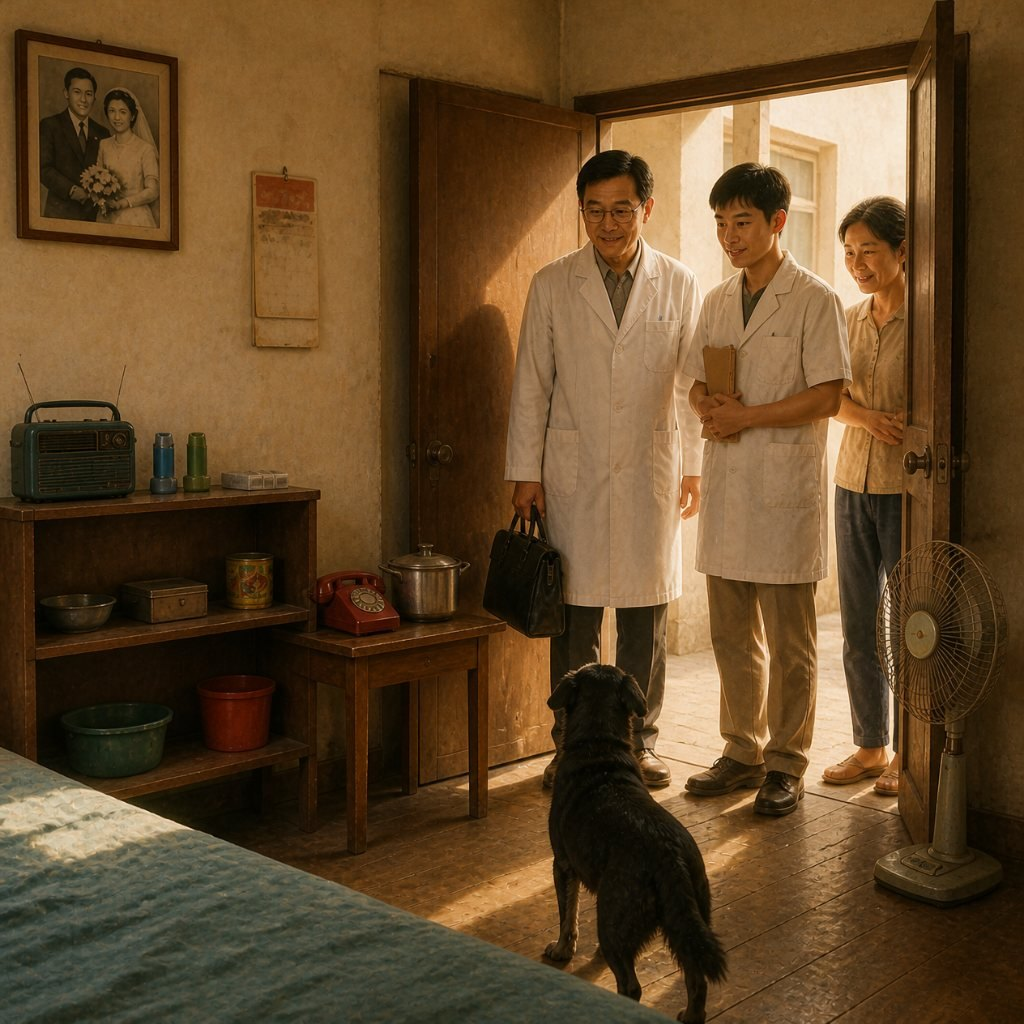
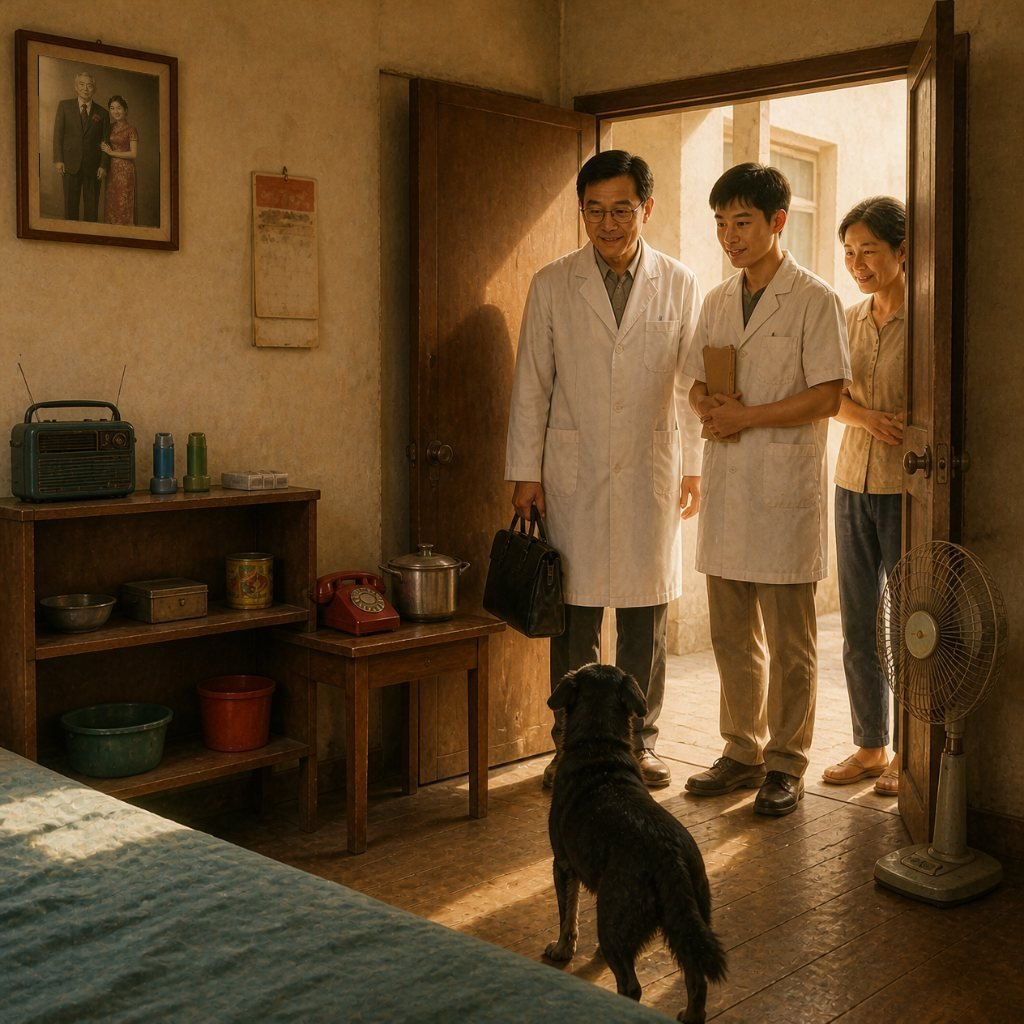
Seven Days of Uncle Lee: review fixes (short phones, replay money, pension day, wedding photo in the room pictures)
Claude-Session: https://claude.ai/code/session_01VXpmBZ3G5HysDNdQBgv9MU

Changed region(s): [[0.0312, 0.0312, 0.1562, 0.2188]]

diff --git a/life/index.html b/life/index.html
@@ -123,6 +123,13 @@ html,body{-webkit-touch-callout:none;margin:0;height:100%;background:#1c1512;col
 #rail{position:relative;width:280px;height:54px;touch-action:none;cursor:pointer}#rail::before{content:"";position:absolute;left:0;right:0;top:23px;height:8px;border-radius:9px;background:#ecdcc0}#rail i{position:absolute;left:0;top:23px;height:8px;border-radius:9px;background:#e9a646}#rail b{position:absolute;top:5px;width:44px;height:44px;margin-left:-22px;border-radius:50%;background:#fffaf0;box-shadow:0 0 0 5px #e9a646,0 4px 10px rgba(120,80,40,.3)}
 .hidden{display:none!important}
 @media (min-width:481px){#app{border-radius:26px;height:min(100dvh,900px);margin-top:max(0px,calc((100dvh - 900px)/2))}}
+/* review 12 Nov: centred content that is taller than the screen could not be scrolled to its top */
+#diary{justify-content:flex-start}
+#panel{justify-content:flex-start;overflow-y:auto}
+#panel::before{content:"";margin-top:auto}#panel::after{content:"";margin-bottom:auto}
+#clock,#money{white-space:nowrap}
+@media (max-width:400px){#hud{font-size:12.5px;padding:9px 10px}#hud .r{gap:7px}#tr i{width:4px}#en span{display:none}}
+@media (max-height:700px){#view{max-height:47dvh}#txt{font-size:17.5px;line-height:1.7}#acts{gap:8px;margin-top:10px}.btn{padding:10px 16px}}
 </style>
 </head>
 <body>
@@ -481,9 +488,9 @@ function reportCard(title, lines, last, sign, next, extra, reply){ return new Pr
   if(next){ dn.textContent=next; dn.classList.add('on'); sfx.bell(); await W(2200); } res(); }); }
 function dayEnd(n){ P['d'+n]=JSON.parse(JSON.stringify(S)); P.done=Math.max(P.done||0,n); saveP(); window.__done=P['d'+n];
   $('#dbtn').innerHTML=(n<7?`<button class="btn go" data-go="${n+1}">ไปวันที่ ${n+1}</button>`:'')+`<button class="btn" data-go="${n}" style="text-align:center">เล่นวันที่ ${n} อีกครั้ง</button><button class="btn" data-go="0" style="text-align:center">กลับหน้าแรก</button>`;
-  $('#dbtn').querySelectorAll('.btn').forEach(b=>{ b.style.opacity=1; b.style.transform='none'; b.style.animation='none'; b.onclick=async()=>{ const g=+b.dataset.go; $('#dbtn').classList.remove('on'); $('#dbtn').innerHTML=''; $('#diary').classList.remove('on'); $('#black').style.opacity=1; await W(1600); if(g) startDay(g); else location.reload(); }; }); $('#dbtn').classList.add('on'); }
+  $('#dbtn').querySelectorAll('.btn').forEach(b=>{ b.style.opacity=1; b.style.transform='none'; b.style.animation='none'; b.onclick=async()=>{ const g=+b.dataset.go; $('#dbtn').classList.remove('on'); $('#dbtn').innerHTML=''; $('#diary').classList.remove('on'); $('#black').style.opacity=1; await W(1600); if(g) startDay(g); else location.reload(); }; }); $('#dbtn').classList.add('on'); setTimeout(()=>{ const d=$('#diary'); if(d.scrollHeight>d.clientHeight+4) d.scrollTo({top:d.scrollHeight,behavior:'smooth'}); },FAST?0:900); }
 async function rise(ms, hint){ await say('หนึ่ง… สอง…',{stay:1,q:1}); await hold('กดค้าง<br>เพื่อลุก', ms, hint||''); await show('dawn',60); $('#hud').classList.add('on'); ramp(fanG,.05,3); await black(false,3000); }
-function newDay(name){ DAY=name; Object.assign(S,{en:5, money:(P.money!=null?P.money:320)}); hud(); fx(''); clearTxt(); $('#txt').textContent=''; $('#vig').style.opacity=0; }
+function newDay(name){ DAY=name; const n=['','วันอังคาร','วันพุธ','วันพฤหัส','วันศุกร์','วันเสาร์','วันอาทิตย์','วันจันทร์'].indexOf(name), pv=P['d'+(n-1)]; Object.assign(S,{en:5, money:(pv&&pv.money!=null?pv.money:P.money!=null?P.money:320)}); hud(); fx(''); clearTxt(); $('#txt').textContent=''; $('#vig').style.opacity=0; }
 
 /* ---------------- Day 2: Wednesday — the day somebody phones ---------------- */
 async function day2(){ newDay('วันพุธ'); const d1=P.d1||{}; Object.assign(S,{ring:'',lie:false,clinic:''});
@@ -801,14 +808,14 @@ async function day6(){ newDay('วันอาทิตย์'); Object.assign(S
   await black(true,900); ramp(fanG,.05,1); await show('night',60); fx('Lamp'); card('dinner_amei'); clock('21:00'); await black(false,1400);
   await say(['คืนนี้ชามใบที่สองมีเจ้าของ\nอาเหมยอยู่กินข้าวเย็นด้วย ก่อนกลับไปเข้าเวรดึก','กินเสร็จ ผมหยิบสมุดเล่มเล็กออกมา เหมือนทุกคืน\n"เขียนอะไรทุกคืนคะ สิบเจ็ดปีแล้ว หนูไม่เคยถาม"']);
   const bk=await choose([{t:'ยื่นสมุดให้เธออ่าน'},{t:'"รายงานน่ะ ไม่มีอะไร"'}]); S.book=bk===0?'read':'keep';
-  await say(bk===0?['เธอเปิดอ่านทีละหน้า ช้าๆ\nรายงานถึงแม่ เจ็ดสิบสี่ปี สมุดสิบเก้าเล่ม เล่มนี้เล่มล่าสุด','เธอไม่ได้พูดอะไร\nเธอหยิบปากกาของผม แล้วเขียนอะไรบางอย่างต่อท้ายหน้าของวันนี้','"ห้ามแอบอ่านก่อนนอนนะ" เธอว่า\nทหารแก่ทำตามคำสั่ง']:['เธอพยักหน้า ไม่ถามต่อ\nเธอเก็บชาม ล้างตะเกียบสองคู่ วางคว่ำไว้คู่กัน','สมุดเล่มนี้ ผมยังไม่พร้อม\nแต่ผมรู้แล้วว่าวันหนึ่ง ผมจะยื่นให้เธอ']);
+  await say(bk===0?['เธอเปิดอ่านทีละหน้า ช้าๆ\nรายงานถึงแม่ เจ็ดสิบกว่าปี สมุดสิบเก้าเล่ม เล่มนี้เล่มล่าสุด','เธอไม่ได้พูดอะไร\nเธอหยิบปากกาของผม แล้วเขียนอะไรบางอย่างต่อท้ายหน้าของวันนี้','"ห้ามแอบอ่านก่อนนอนนะ" เธอว่า\nทหารแก่ทำตามคำสั่ง']:['เธอพยักหน้า ไม่ถามต่อ\nเธอเก็บชาม ล้างตะเกียบสองคู่ วางคว่ำไว้คู่กัน','สมุดเล่มนี้ ผมยังไม่พร้อม\nแต่ผมรู้แล้วว่าวันหนึ่ง ผมจะยื่นให้เธอ']);
   cardOff(); await black(true,2400); fx(''); clearTxt(); await W(500);
   await reportCard('รายงานประจำวัน · วันอาทิตย์',['ตื่น 05.40','ลุกกลางดึก: ไม่มี','ยาเช้า: ห้าเม็ด (เคยเจ็ด)','จัดยาทั้งสัปดาห์: ด้วยมือตัวเอง','ซองยาในลิ้นชัก: ห้า (เคยสิบสาม)','เล่าเรื่องเพลงให้คนฟัง: หนึ่งครั้ง','ลงบันได: ถึงชั้นหนึ่ง เห็นประตู','ผู้ร่วมโต๊ะมื้อเย็น: หนึ่งคน','เต้นรำ: เก็บแรงไว้ พรุ่งนี้','สมุดเล่มนี้: '+(S.book==='read'?'มีคนอ่านแล้วหนึ่งคน':'ยังเป็นความลับ อีกไม่นาน')],'เหตุการณ์ทั่วไป: ดีขึ้น','แม่ครับ พรุ่งนี้ผมมีนัด\nข้างล่าง','พรุ่งนี้ วันที่เจ็ด', '', S.book==='read'?'แม่คะ หนูชื่อเหมย\nวันนี้เขาจัดยาเองได้แล้ว แม่ไม่ต้องห่วงนะคะ':'เมียเจ้าดีนะ\nขอบใจเธอแทนแม่ด้วย'); dayEnd(6);
 }
 /* ---------------- Day 7: Monday — four floors ---------------- */
 async function day7(){ newDay('วันจันทร์'); Object.assign(S,{ring:''});
   await W(900); await say('05:40',{big:1});
-  await say(['วันจันทร์\nผมตื่นก่อนแตร เหมือนทุกวัน']);
+  await say(['วันจันทร์\nผมตื่นก่อนแตร เหมือนทุกวัน','วันนี้บำนาญออก\nหกวันที่นับถอยหลัง จบลงตรงนี้']); S.money+=500; hud();
   clock('05:44'); await rise(1900); await say(['…สาม\nพอดีสาม']);
   await show('morning',3000); fx('Sun Dust'); clock('06:30'); await greenRoutine(false);
   await say(['หมุน เปิด กด ปิด\nมือทำของมันเองแล้ว เหมือนที่มันเคยวางตะเกียบ']);

diff --git a/life_wedfix.py b/life_wedfix.py
@@ -1,0 +1,28 @@
+import sys, numpy as np
+from PIL import Image, ImageFilter, ImageDraw, ImageEnhance
+IMG=sys.argv[1]; BAK=sys.argv[2]
+src=Image.open(f'{IMG}/photo.jpg').convert('RGB').crop((360,110,680,560))
+src=ImageEnhance.Color(src).enhance(.55).filter(ImageFilter.GaussianBlur(.6))
+def coeffs(dst, srcq):
+    A=[];B=[]
+    for (x,y),(u,v) in zip(dst,srcq):
+        A+= [[x,y,1,0,0,0,-u*x,-u*y],[0,0,0,x,y,1,-v*x,-v*y]]; B+=[u,v]
+    return np.linalg.solve(np.array(A,float),np.array(B,float)).tolist()
+QM=[(512.7,109),(617,100),(617.7,242.7),(513.7,248.7)]
+QD=[(563.3,129.3),(670.7,126.7),(670,286.7),(564.3,286.7)]
+JOBS={'morning':QM,'noon':QM,'dawn':QM,'night':QM,'pet':QM,'dance':QM,'dusk':QD}
+for name,q in JOBS.items():
+    room=Image.open(f'{BAK}/{name}.jpg').convert('RGB'); W,H=room.size
+    w,h=src.size
+    c=coeffs(q,[(0,0),(w,0),(w,h),(0,h)])
+    warped=src.transform((W,H),Image.PERSPECTIVE,c,Image.BICUBIC)
+    mask=Image.new('L',(W,H),0); ImageDraw.Draw(mask).polygon(q,fill=255); mask=mask.filter(ImageFilter.GaussianBlur(.8))
+    # match the light of the old picture in this room (per channel mean / spread)
+    m=np.asarray(mask)>128; R=np.asarray(room).astype(float); Wp=np.asarray(warped).astype(float); out=Wp.copy()
+    for ch in range(3):
+        a=Wp[...,ch][m]; b=R[...,ch][m]
+        out[...,ch]=(Wp[...,ch]-a.mean())/(a.std()+1e-6)*(b.std()*.85)+b.mean()
+    warped=Image.fromarray(np.clip(out,0,255).astype('uint8'))
+    res=Image.composite(warped,room,mask)
+    res.save(f'{IMG}/{name}.jpg',quality=86)
+    print(name,'ok')

diff --git a/README.md b/README.md
@@ -305,6 +305,14 @@ a night shift, and the nightly "daily report" to his wife that always ends "noth
   day 6 night he may hand her the notebook (`S.book`), and then day 6's reply is in her hand. Day 7: the yangge dance
   with his mother in the Qingdao courtyard (`yard_mom`, `yangge_mom`), Ah-Mei arriving at the bus stop after her
   night shift. New `photo`: the 2005 wedding photo (he 72, she 24). The dog is เจ้าดำ, as in Case D.
+- 12 Nov evening, review and bug test (all branches on phone/tablet/desktop, each day started fresh from the title,
+  every gesture at real speed with mouse and touch): (1) on short phones the diary page and the text panel were
+  centred with no way to scroll to their tops: now safe-centred and scrollable, the diary scrolls to its buttons,
+  and below 700 px height the picture is a little smaller; (2) a replayed day used the money of the latest day: now
+  the money the day really started with (`newDay`); (3) Monday is pension day (+NT$ 500), so he is never buying soy
+  milk with NT$ 0; (4) the wedding photo on the wall of the room pictures (morning, noon, dawn, night, pet, dance,
+  dusk = title, amei, door) now shows Lee at 72 and Ah-Mei at 24, pasted into the old frame and matched to each
+  picture's light; (5) the top bar stays on one line on narrow phones.
 - Sound is made in code. `?fast=1` runs without waits (tests); `window.__pick` / `window.__order` choose answers
   and the order of things tapped in the morning.
 
